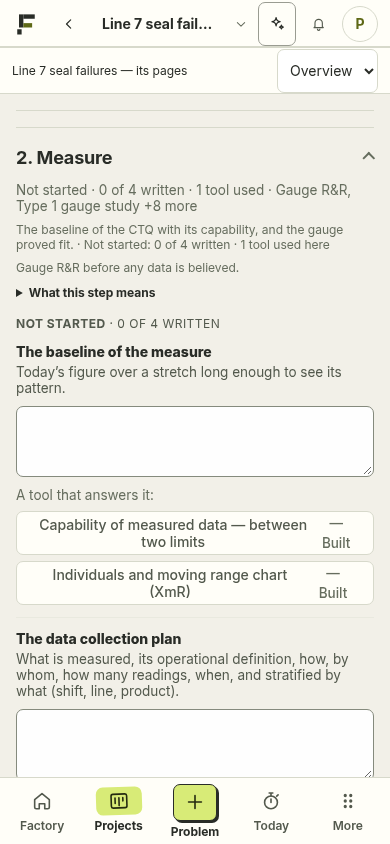
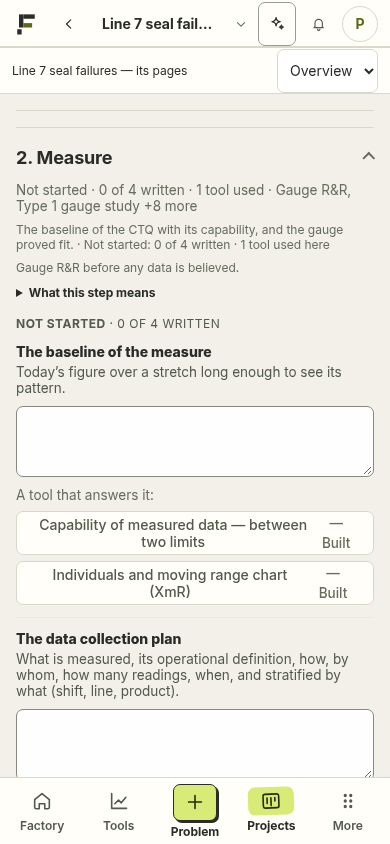
Complete saved-work grouping and refresh workspace guide images

Changed region(s): [[0.6154, 0.9242, 0.7692, 0.9858], [0.2462, 0.9242, 0.3692, 0.9858]]

diff --git a/src/ui/SavedToolWork.tsx b/src/ui/SavedToolWork.tsx
@@ -7,6 +7,8 @@ import { APP_TOOLS } from '../catalogue/registry';
 import { toolLabel } from '../catalogue/registry';
 import { openOf } from '../screens/LineToolsScreen';
 import { LineUseList, type SavedLineUse } from '../line/LineUseList';
+import { isConversation } from '../colleague/conversation';
+import { sixmsOf, sixmHref } from '../tools/sixm/sixmTool';
 
 /** A view over saved records, not a second library or another copy of their data. */
 export function SavedToolWork() {
@@ -14,16 +16,21 @@ export function SavedToolWork() {
   const cs = useClientScope();
   const uses = useMemo(() => {
     const place = (r: { workspaceId?: string; projectId?: string }, machine?: string) => [cs.all ? cs.whose(r) : '', rec.all.find(w => w.id === r.workspaceId)?.name, machine].filter(Boolean).join(' · ') || 'Standalone';
-    const studies: SavedLineUse[] = rec.studies.filter(s => !s.deletedAt && cs.record(s) && s.tool !== 'story').map(s => {
+    const studies: SavedLineUse[] = rec.studies.filter(s => !s.deletedAt && cs.record(s) && s.tool !== 'story' && !isConversation(s)).map(s => {
       const href = studyHref(s);
-      const tool = APP_TOOLS.find(t => t.to.split('?')[0].split('/')[1] === href.split('/')[1]);
+      const path = href.split('?')[0];
+      const tool = s.tool === 'balance' ? APP_TOOLS.find(t => t.key === 'linework') : APP_TOOLS.filter(t => path === t.to || path.startsWith(`${t.to}/`)).sort((a, b) => b.to.length - a.to.length)[0];
       return { key: `study:${s.id}`, id: s.id, tool: tool?.label ?? toolLabel(s.tool), toolKey: tool?.key ?? s.tool, name: s.name, place: place(s, s.machine), product: s.product, href: toolsHref(href), at: s.updatedAt };
     });
     const standards: SavedLineUse[] = rec.standards.filter(s => cs.record(s)).flatMap(s => [
       ...(s.capacity ? [{ key: `capacity:${s.id}`, id: s.id, tool: 'Line capacity', toolKey: 'linebalance', name: s.product, place: place(s), href: toolsHref(openOf(s, 'balance')), at: s.updatedAt }] : []),
       ...(s.marks.length || !s.capacity ? [{ key: `standard:${s.id}`, id: s.id, tool: 'Line standard', toolKey: 'linestandard', name: s.product, place: place(s), href: toolsHref(openOf(s, 'map')), at: s.updatedAt }] : []),
     ]);
-    return [...studies, ...standards];
+    const sixms: SavedLineUse[] = sixmsOf(rec.jobs).filter(p => cs.project(p.id)).map(p => {
+      const workspaceId = rec.jobLines.find(l => l.projectId === p.id && l.workspaceId)?.workspaceId;
+      return { key: `sixm:${p.id}`, id: p.id, tool: '6M', toolKey: 'sixm', name: p.name, place: place({ projectId: p.id, workspaceId }), href: toolsHref(sixmHref(p.id, { line: workspaceId })), at: p.updatedAt };
+    });
+    return [...studies, ...standards, ...sixms];
   }, [rec, cs]);
   if (rec.loading || !cs.ready) return <p role="status" className="sub">Loading saved work…</p>;
   return <section aria-label="Your saved tool work"><LineUseList uses={uses} searchable empty="No saved work yet. Choose a tool from the library to start." /></section>;

diff --git a/docs/STATE.md b/docs/STATE.md
@@ -20,6 +20,8 @@ Rowland confirmed that organisation, simplicity and power must apply throughout 
 
 The Pop checkpoint `84f2ec88` passed core and installed-app updating. Its report gate found one missing week-count sentence on the huge status paper (69/70 target reports; comparison parity passed). The cause was another readiness boundary: the status export could enable before the journey read arrived. Status/client and 6M reports now wait for that read; project-owned reads are keyed to their project and ignore superseded async results, and the journey hook keeps a stable snapshot. The first repaired huge-status PDF includes the exact expected weekly sentence and counts. The complete 70-report check is running; no expected facts are removed. No production change has been made.
 
+Latest local workspace proof: **444 checks / 148 sections**, zero geometry faults and zero console errors (`workspace-all-sections`). The complete updated workspace acceptance passes, including 6M saved records, exclusion of Luna conversations, standalone use, unchanged linked ownership, two-client isolation and three device widths. The assistant environment, case file and tiny navigation/search journeys pass. **All 70 report PDFs are clean**, including the formerly missing huge-status weekly summary. The public guide's three images now show the reorganised navigation. Final full CI and production publication remain pending.
+
 ## Earlier production history and decisions
 
 The dated entries below are historical records. The current status above takes precedence over older naming, palette and in-flight statements.

diff --git a/docs/PAGES.md b/docs/PAGES.md
@@ -1,3 +1,5 @@
+Saved work includes 6M as its own tool and excludes Luna conversations (which stay in Luna's conversation list). The tool label is matched to the most specific catalogue route, with Line balance named explicitly. Client names are shown when viewing all clients. The final workspace acceptance checks these distinctions and both clients' separation.
+
 The project status/client and 6M exports now wait for the journey summary to load as part of their report readiness. Their weekly counts must never disappear from an early download. The shared project read tags its project and rejects superseded async reads; the journey snapshot remains stable between unchanged renders. Screen and PDF use the same completed summary; no calculation or expected report content changes.
 
 ## 17 November — clear workspaces throughout the app
